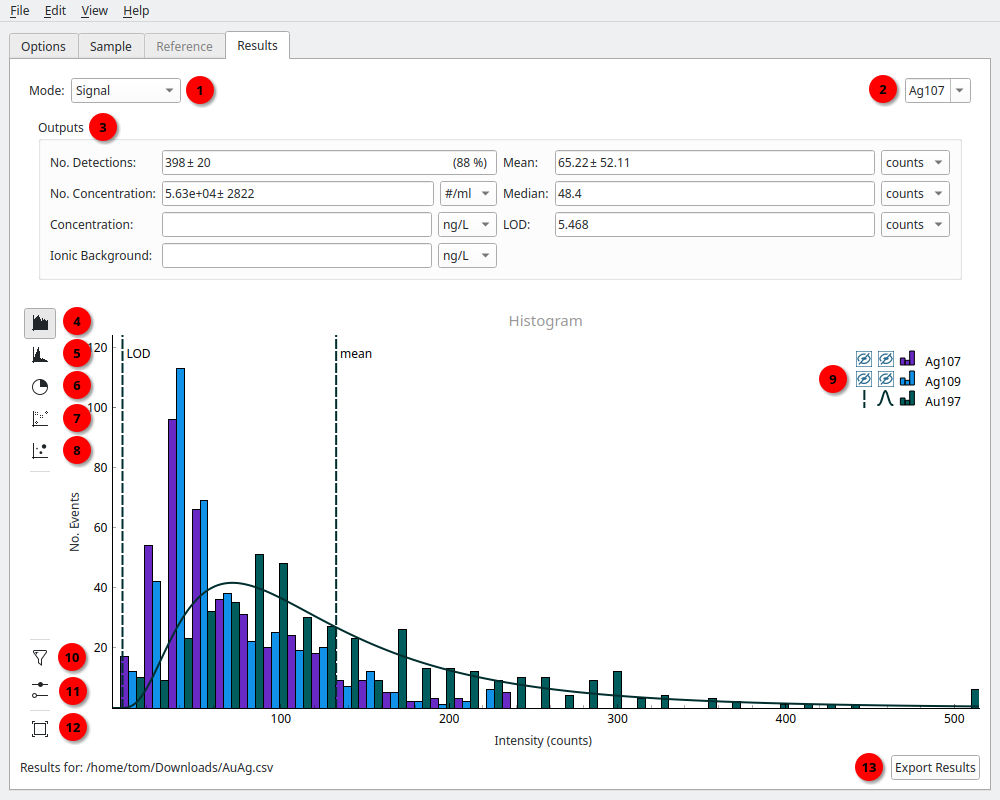
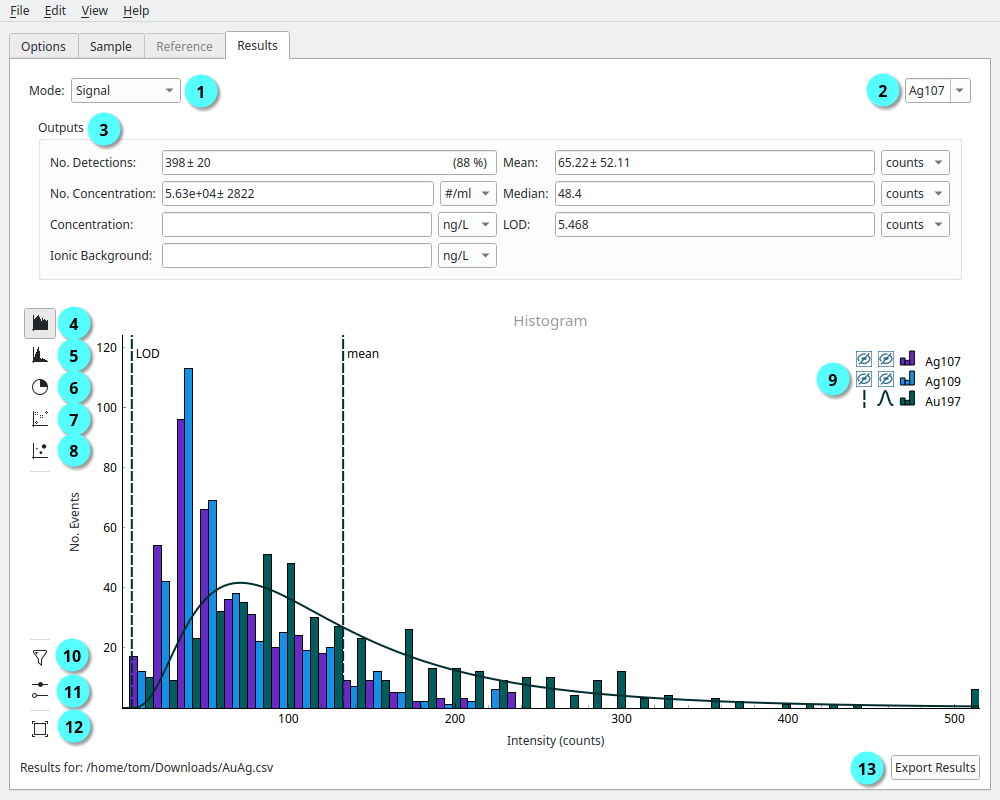
nicer labelled image

diff --git a/docs/source/results.rst b/docs/source/results.rst
@@ -5,16 +5,16 @@ Processing Results
 .. figure:: images/tutorial_results_labeled.png
    :align: center
 
-   The results tab, as shown for ToF data in the Multi-histogram view. (1) Mode selector, (2) Element selector, (3) Outputs, (4) Multi-histogram view, (5) Histogram view, (6) Compositions view, (7) Scatter view, (8) PCA view, (9) Legend, (10) Filter options, (11) Graph options, (12) View reset, (13) Export button.
+   The results tab, as shown for ToF data in the Multi-histogram view. |c1| Mode selector, |c2| Element selector, |c3| Outputs, |c4| Multi-histogram view, |c5| Histogram view, |c6| Compositions view, |c7| Scatter view, |c8| PCA view, |c9| Legend, |c10| Filter options, |c11| Graph options, |c12| View reset, |c13| Export button.
 
 The **Results Tab** is available once a sample is imported and one or more particles are detected.
 Here you can via the distribution of signals, as well as sizes and masses if data has been :doc:`Calibrated <calibration>`.
-For single-element (quadrupole) data, only the standard histrogram view ((5) :numref:`results label`) is avaiable.
+For single-element (quadrupole) data, only the standard histrogram view (|c5| :numref:`results label`) is avaiable.
 This displays the data's distribution, a log-normal or normal fit to the histogram, and the mean and limit-of-detection.
-The visiblity of these can be toggled by left-clicking the graph's legend ((9) :numref:`results label`).
-The graph options for the Histogram and Multi-histogram views ((11) :numref:`results label`) let you set the histogram bin-width and the type of fit (normal or log-normal).
+The visiblity of these can be toggled by left-clicking the graph's legend (|c9| :numref:`results label`).
+The graph options for the Histogram and Multi-histogram views (|c11| :numref:`results label`) let you set the histogram bin-width and the type of fit (normal or log-normal).
 
-The results outputs ((3) :numref:`results label`) displays the calculated results for the currently selected element ((2) :numref:`results label`).
+The results outputs (|c3| :numref:`results label`) displays the calculated results for the currently selected element (|c2| :numref:`results label`).
 The *No. Dectections* shows the number of detected particles :math:`N` with their error taken as the :math:`\sqrt{N}`, so assumes Poisson counting statistics.
 The fraction of total particles that contain the selected element is shown as a percent.
 
@@ -33,9 +33,9 @@ Compositions
 
    Results of hierarchical agglomerative clustering. The cluster index and size are shown below each cluster result.
 
-The per-particle elemental composition can be calculated using spICP-ToF data and then displayed as a pir or bar chart using the Composition view ((6) :numref:`results label`).
+The per-particle elemental composition can be calculated using spICP-ToF data and then displayed as a pir or bar chart using the Composition view (|c6| :numref:`results label`).
 Particle compostions are clustered using heirachcal-agglomerative clustering [1]_ and displayed (:numref:`results composition`).
-The graph options ((11) :numref:`results label`) let you set the *Distance threshold*, *Minimum cluster size* and *Display mode* (bar or pie) for the clustering.
+The graph options (|c11| :numref:`results label`) let you set the *Distance threshold*, *Minimum cluster size* and *Display mode* (bar or pie) for the clustering.
 The *Distance threshold* sets the minimum distance to merge clusters, while the *Minimum cluster size* controls the smallest cluster to show (e.g. to prevent single-particle clusters).
 The size of each cluster (number of particles) and index for filtering is shown below.
 
@@ -51,7 +51,7 @@ Filtering
    Additionally, data can be filtered using the cluster index following hierarchical agglomerative clustering.
 
 
-The **Filtering Dialog** ((10) :numref:`results label`) can be used to select particles with certain characteristcs.
+The **Filtering Dialog** (|c10| :numref:`results label`) can be used to select particles with certain characteristcs.
 Particles can be selected based on their signal, mass or size for one or more elements, using boolean (AND, OR) operations.
 The example in :numref:`results filter` uses the boolean AND of the two silver isotopes, 107 and 109, with signals greater than 0 counts.
 This filters particle detections and results to only those that contain both silver isotopes.
@@ -63,8 +63,21 @@ This filters particle detections and results to only those that contain both sil
    Data before and after filtering particles containing Au197 > 100 counts.
    Filtered particles are shown in grey.
 
-The Histogram views ((4, 5) :numref:`results label`) and Scatter view ((7) :numref:`results label`) can show filtered detections in grey, as in :numref:`results filtered`.
-This is done by selecting *Draw filtered detections* in the graph options ((11) :numref:`results label`) for the relevant view.
+The Histogram views (|c4|, |c5| :numref:`results label`) and Scatter view (|c7| :numref:`results label`) can show filtered detections in grey, as in :numref:`results filtered`.
+This is done by selecting *Draw filtered detections* in the graph options (|c11| :numref:`results label`) for the relevant view.
 
+.. [1] Tharaud, M.; Schlatt, L.; Shaw, P.; Benedetti, M. F. Nanoparticle Identification Using Single Particle ICP-ToF-MS Acquisition Coupled to Cluster Analysis. From Engineered to Natural Nanoparticles. J. Anal. At. Spectrom. 2022, 37 |c10|, 2042–2052. https://doi.org/10.1039/D2JA00116K.
 
-.. [1] Tharaud, M.; Schlatt, L.; Shaw, P.; Benedetti, M. F. Nanoparticle Identification Using Single Particle ICP-ToF-MS Acquisition Coupled to Cluster Analysis. From Engineered to Natural Nanoparticles. J. Anal. At. Spectrom. 2022, 37 (10), 2042–2052. https://doi.org/10.1039/D2JA00116K.
+.. |c1| unicode:: U+2460
+.. |c2| unicode:: U+2461
+.. |c3| unicode:: U+2462
+.. |c4| unicode:: U+2463
+.. |c5| unicode:: U+2464
+.. |c6| unicode:: U+2465
+.. |c7| unicode:: U+2466
+.. |c8| unicode:: U+2467
+.. |c9| unicode:: U+2468
+.. |c10| unicode:: U+2469
+.. |c11| unicode:: U+246A
+.. |c12| unicode:: U+246B
+.. |c13| unicode:: U+246C
